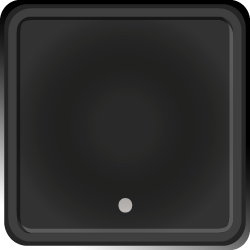
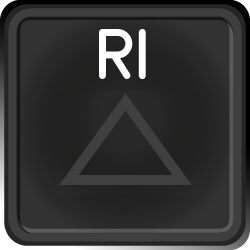
JSS complete

Changed region(s): [[0.224, 0.532, 0.756, 0.756], [0.392, 0.112, 0.588, 0.336], [0.448, 0.784, 0.532, 0.868]]

diff --git a/Helios/Gauges/FA-18C/JSS/JSS.cs b/Helios/Gauges/FA-18C/JSS/JSS.cs
@@ -24,22 +24,39 @@ namespace GadrocsWorkshop.Helios.Gauges.FA_18C.JSS
         private string _interfaceDeviceName = "JSS";
         private string _ufcCueing = "!=È";
 
+        private string IndicatorName(string name, bool isOn)
+        {
+            return "{FA-18C}/Images/" + name + (isOn ? " On" : " Off") + ".png";
+             
+        }
 
         public JSS()
         : base("JSS", new Size(140, 470))
         {
-            AddButton("CTR", 50,200, new Size(32, 32), "Jettison Center");
-            AddButton("RI", 30, 250, new Size(32, 32), "Jettison Right Inner");
-            AddButton("RO", 80, 250, new Size(32, 32), "Jettison Right Outer");
-            AddButton("LI", 30, 300, new Size(32, 32), "Jettison Left Inner");
-            AddButton("LO", 80, 300, new Size(32, 32), "Jettison Left Outer");
+            AddButton("CTR", (70-24),140, new Size(48, 48), "Jettison Center");
+            AddButton("LI", 18, 200, new Size(48, 48), "Jettison Left Inner");
+            AddButton("LO", 18, 260, new Size(48, 48), "Jettison Left Outer");
+            AddButton("RI", 80, 200, new Size(48, 48), "Jettison Right Inner");
+            AddButton("RO", 80, 260, new Size(48, 48), "Jettison Right Outer");
 
-            AddTextDisplay("JSS_GEAR_NOSE", 40, 370, new Size(50, 20), "Option Display 1 Selected", 32, "~", TextHorizontalAlignment.Left, _ufcCueing);
-            AddTextDisplay("JSS_GEAR_LEFT", 10, 400, new Size(50, 20), "Option Display 1 Selected", 32, "~", TextHorizontalAlignment.Left, _ufcCueing);
-            AddTextDisplay("JSS_GEAR_RIGHT", 70, 400, new Size(50, 20), "Option Display 1 Selected", 32, "~", TextHorizontalAlignment.Left, _ufcCueing);
-            AddTextDisplay("JSS_FLAPS_FULL", 10, 430, new Size(50, 20), "Option Display 1 Selected", 32, "~", TextHorizontalAlignment.Left, _ufcCueing);
-            AddTextDisplay("JSS_FLAPS_HALF", 70, 430, new Size(50, 20), "Option Display 1 Selected", 32, "~", TextHorizontalAlignment.Left, _ufcCueing);
-            AddTextDisplay("JSS_FLAPS", 50, 460, new Size(50, 20), "Option Display 1 Selected", 32, "~", TextHorizontalAlignment.Left, _ufcCueing);
+
+
+            AddIndicator("GEAR_NOSE", new Point(45, 320), new Size(50, 27), IndicatorName("Gear Nose", true), IndicatorName("Gear Nose", false), Colors.Transparent, Colors.Transparent,
+                "Helios Virtual Cockpit F/A-18C_Hornet-Up_Front_Controller", false, _interfaceDeviceName, "Nose Gear", false);
+            AddIndicator("GEAR_LEFT", new Point(20, 355), new Size(50, 27), IndicatorName("Gear Left", true), IndicatorName("Gear Left", false), Colors.Transparent, Colors.Transparent,
+                "Helios Virtual Cockpit F/A-18C_Hornet-Up_Front_Controller", false, _interfaceDeviceName, "Left Gear", false);
+            AddIndicator("GEAR_RIGHT", new Point(70, 355), new Size(50, 27), IndicatorName("Gear Right", true), IndicatorName("Gear Right", false), Colors.Transparent, Colors.Transparent,
+                "Helios Virtual Cockpit F/A-18C_Hornet-Up_Front_Controller", false, _interfaceDeviceName, "Right Gear", false);
+
+
+            AddIndicator("FLAPS_FULL", new Point(20, 390), new Size(50, 27), IndicatorName("Flaps Full", true), IndicatorName("Flaps Full", false), Colors.Transparent, Colors.Transparent,
+                "Helios Virtual Cockpit F/A-18C_Hornet-Up_Front_Controller", false, _interfaceDeviceName, "Full Flaps", false);
+
+            AddIndicator("FLAPS_HALF", new Point(70, 390), new Size(50, 27), IndicatorName("Flaps Half", true), IndicatorName("Flaps Half", false), Colors.Transparent, Colors.Transparent,
+                "Helios Virtual Cockpit F/A-18C_Hornet-Up_Front_Controller", false, _interfaceDeviceName,"Half Flaps", false);
+
+            AddIndicator("FLAPS", new Point(45, 425), new Size(50, 27), IndicatorName("Flaps", true), IndicatorName("Flaps", false), Colors.Transparent, Colors.Transparent,
+                "Helios Virtual Cockpit F/A-18C_Hornet-Up_Front_Controller", false, _interfaceDeviceName, "Flaps", false);
         }
 
 
@@ -63,7 +80,7 @@ namespace GadrocsWorkshop.Helios.Gauges.FA_18C.JSS
         private void AddTextDisplay(string name, double x, double y, Size size,
             string interfaceElementName, double baseFontsize, string testDisp, TextHorizontalAlignment hTextAlign, string ufcDictionary)
         {
-            TextDisplay display = AddTextDisplay(
+                TextDisplay display = AddTextDisplay(
                 name: name,
                 posn: new Point(x, y),
                 size: size,
